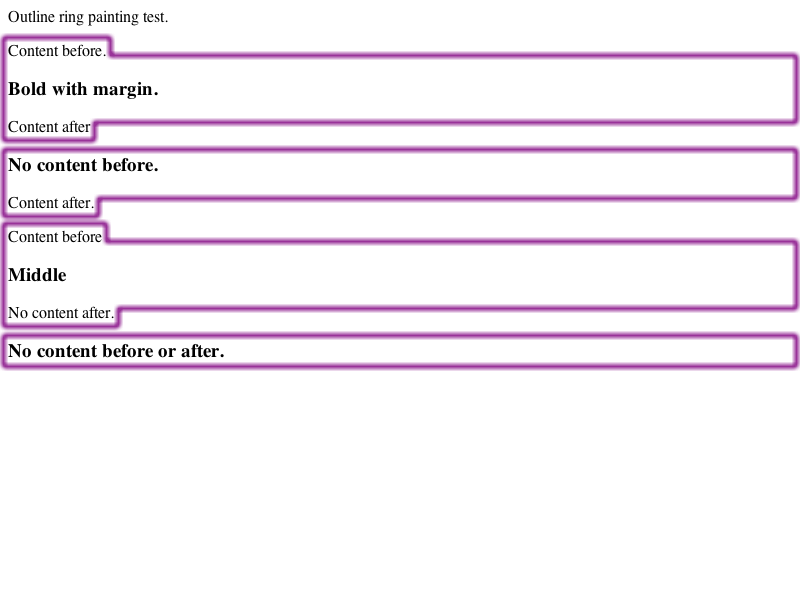
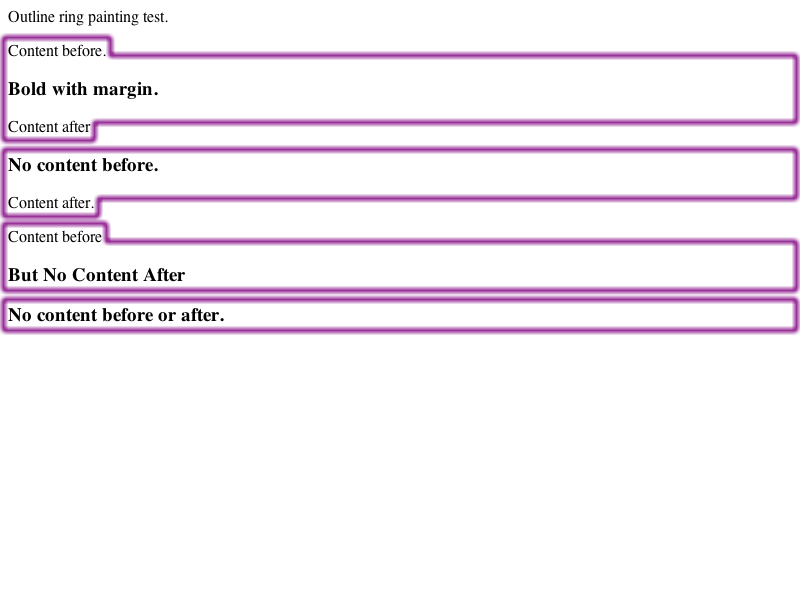
Tweak continuation tests to make sure the no content after case is covered.
git-svn-id: https://svn.webkit.org/repository/webkit/trunk@21398 268f45cc-cd09-0410-ab3c-d52691b4dbfc

Changed region(s): [[0.0, 0.45, 1.0, 0.63]]

diff --git a/LayoutTests/fast/inline/continuation-outlines-with-layers.html b/LayoutTests/fast/inline/continuation-outlines-with-layers.html
@@ -13,7 +13,7 @@ Content after</span></p>
 
 <p><span><h3>No content before.</h3>Content after.</span></p>
 
-<p><span>Content before<h3>Middle</h3>No content after.</span></p>
+<p><span>Content before<h3>But No Content After</h3></span></p>
 
 <p><span><h3>No content before or after.</h3></span></p>
 

diff --git a/LayoutTests/fast/inline/continuation-outlines.html b/LayoutTests/fast/inline/continuation-outlines.html
@@ -13,7 +13,7 @@ Content after</span></p>
 
 <p><span><h3>No content before.</h3>Content after.</span></p>
 
-<p><span>Content before<h3>Middle</h3>No content after.</span></p>
+<p><span>Content before<h3>But No Content After</h3></span></p>
 
 <p><span><h3>No content before or after.</h3></span></p>
 
